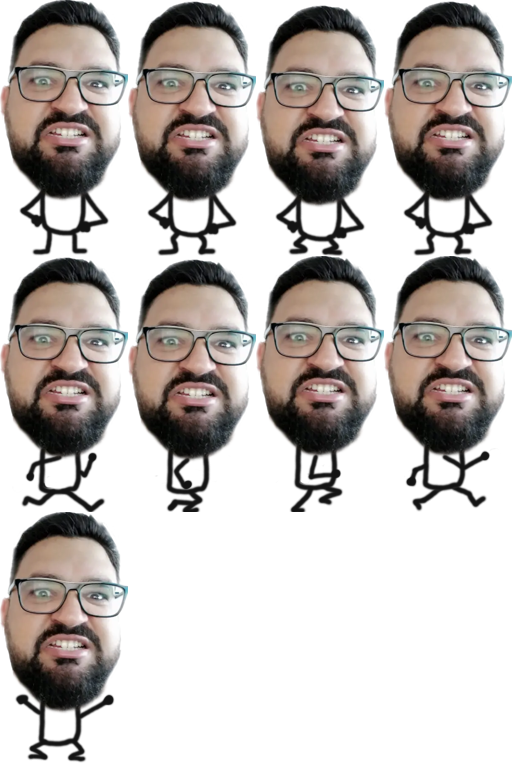
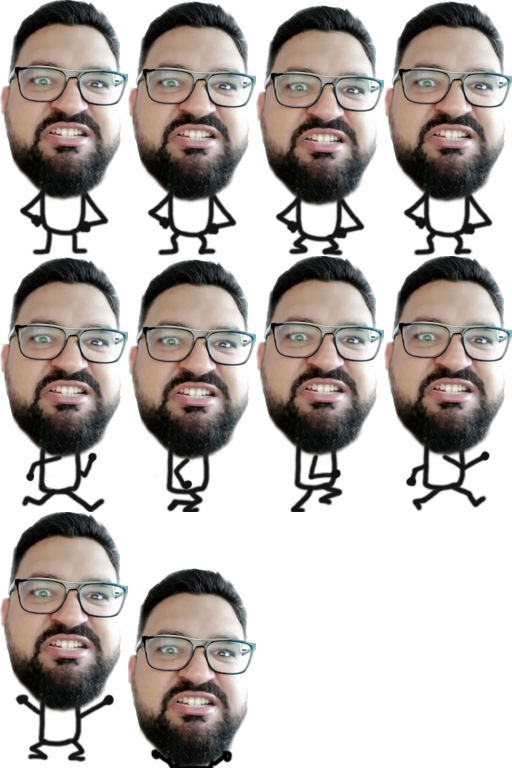
Implementing crouching

Changed region(s): [[0.25, 0.7188, 0.5, 1.0]]

diff --git a/src/player.rs b/src/player.rs
@@ -45,11 +45,7 @@ impl Player {
     }
 
     pub fn sides(&self) -> Vec2 {
-        if self.crouched {
-            self.sides * Vec2::new(1.0, 0.5)
-        } else {
-            self.sides
-        }
+        self.sides
     }
 
     pub fn attack(&mut self, position: Vec2, sides: Vec2) -> bool {
@@ -98,7 +94,19 @@ impl Player {
     }
 
     pub fn hitbox(&self) -> Vec2 {
-        self.sides - Vec2::new(0.25, 0.25)
+        if self.crouched {
+            self.sides - Vec2::new(0.25, 0.5)
+        } else {
+            self.sides - Vec2::new(0.25, 0.25)
+        }
+    }
+
+    pub fn hitbox_position(&self) -> Vec2 {
+        if self.crouched {
+            self.position - Vec2::new(0.0, 0.25)
+        } else {
+            self.position
+        }
     }
 
     pub fn update(
@@ -111,18 +119,19 @@ impl Player {
         // Drag
         self.apply_drag(elapsed);
 
-        self.crouched = false;
+        self.crouched = keys.contains(&Keycode::Down);
         // Input
         for key in keys {
             match key {
                 Keycode::Left => {
-                    self.accelerate(Vec2::new(-self.speed(), 0.0), elapsed);
+                    if !self.crouched {
+                        self.accelerate(Vec2::new(-self.speed(), 0.0), elapsed);
+                    }
                 }
                 Keycode::Right => {
-                    self.accelerate(Vec2::new(self.speed(), 0.0), elapsed);
-                }
-                Keycode::Down => {
-                    self.crouched = true;
+                    if !self.crouched {
+                        self.accelerate(Vec2::new(self.speed(), 0.0), elapsed);
+                    }
                 }
                 Keycode::Space => {
                     if self.grounded() {
@@ -181,7 +190,9 @@ impl Player {
         self.position += displacement;
 
         let col: i32 = (self.timer.elapsed().as_millis() as i32 / 160 % 4) * 128;
-        if !self.grounded() {
+        if self.crouched {
+            self.sprite = (128, 512, 128, 256);
+        } else if !self.grounded() {
             self.sprite = (0, 512, 128, 256);
         } else if self.velocity.x.abs() > 0.0 {
             self.sprite = (col, 256, 128, 256);
@@ -189,22 +200,4 @@ impl Player {
             self.sprite = (col, 0, 128, 256);
         }
     }
-
-    // fn state(&self) -> PlayerState {
-    //     use PlayerState::*;
-    //     match self.velocity {
-    //         v if v.y.abs() > 0.1 => Jumping,
-    //         v if v.x > 0.1 => WalkingRight,
-    //         v if v.x < -0.1 => WalkingLeft,
-    //         _ => Standing,
-    //     }
-    // }
 }
-
-// #[derive(Debug)]
-// enum PlayerState {
-//     WalkingLeft,
-//     WalkingRight,
-//     Jumping,
-//     Standing,
-// }

diff --git a/src/level.rs b/src/level.rs
@@ -196,7 +196,7 @@ impl Level {
                     sounds.push(SoundEffect::Click);
                 }
             } else if physics::collides(
-                self.player.position,
+                self.player.hitbox_position(),
                 self.player.hitbox(),
                 self.monkey.position,
                 self.monkey.hitbox(),
@@ -212,7 +212,12 @@ impl Level {
         }
 
         for b in &self.monkey.bananas {
-            if physics::collides(self.player.position, self.player.hitbox(), b.position, b.sides) {
+            if physics::collides(
+                self.player.hitbox_position(),
+                self.player.hitbox(),
+                b.position,
+                b.sides,
+            ) {
                 self.player.die();
                 sounds.push(SoundEffect::Dead);
             }
@@ -224,7 +229,7 @@ impl Level {
                 e.damage(1);
                 sounds.push(SoundEffect::Hit);
             } else if physics::collides(
-                self.player.position,
+                self.player.hitbox_position(),
                 self.player.hitbox(),
                 e.position,
                 e.hitbox(),

diff --git a/src/render.rs b/src/render.rs
@@ -266,6 +266,7 @@ pub fn render(
     canvas.copy_ex(&tx_manager.jeff, src, dst, 0.0, None, level.player.velocity.x < 0.0, false)?;
 
     // Hitbox
+    // let p = Point::from(camera.to_pixels(level.player.hitbox_position()));
     // canvas.set_draw_color(Color::RED);
     // let hit = level.player.hitbox() * camera.scale();
     // canvas.draw_rect(Rect::from_center(p, hit.x as u32, hit.y as u32))?;
